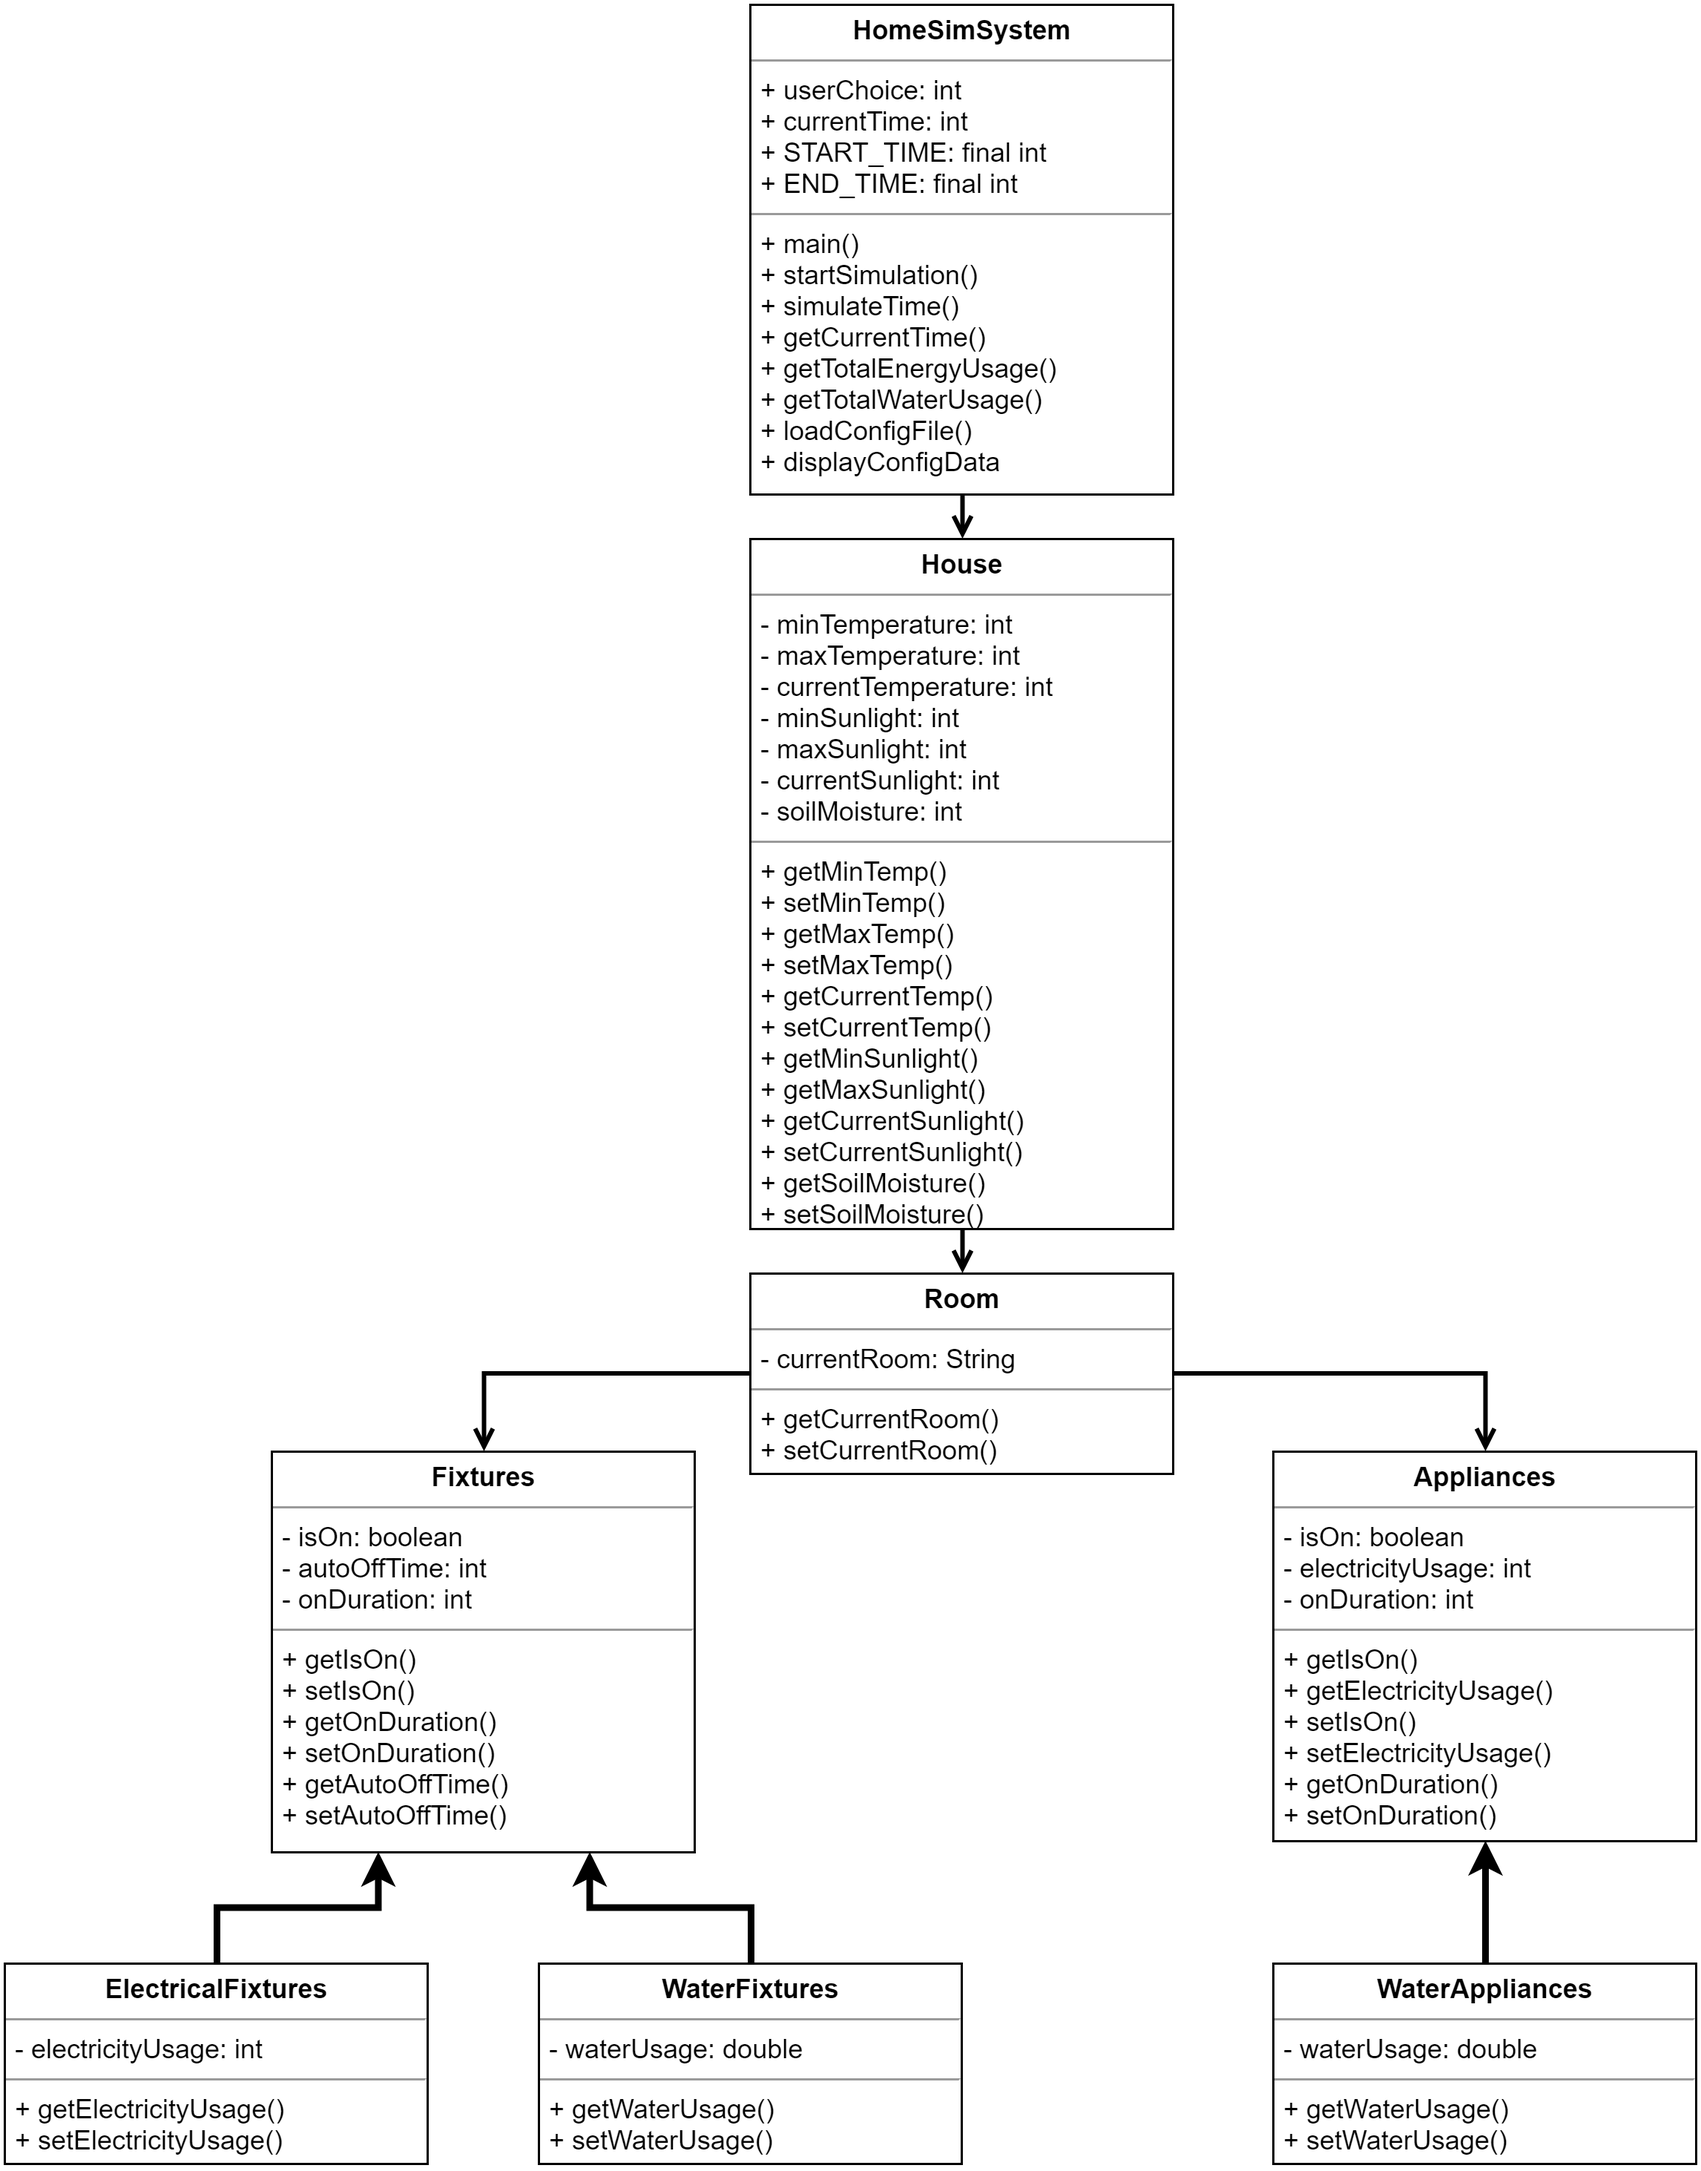
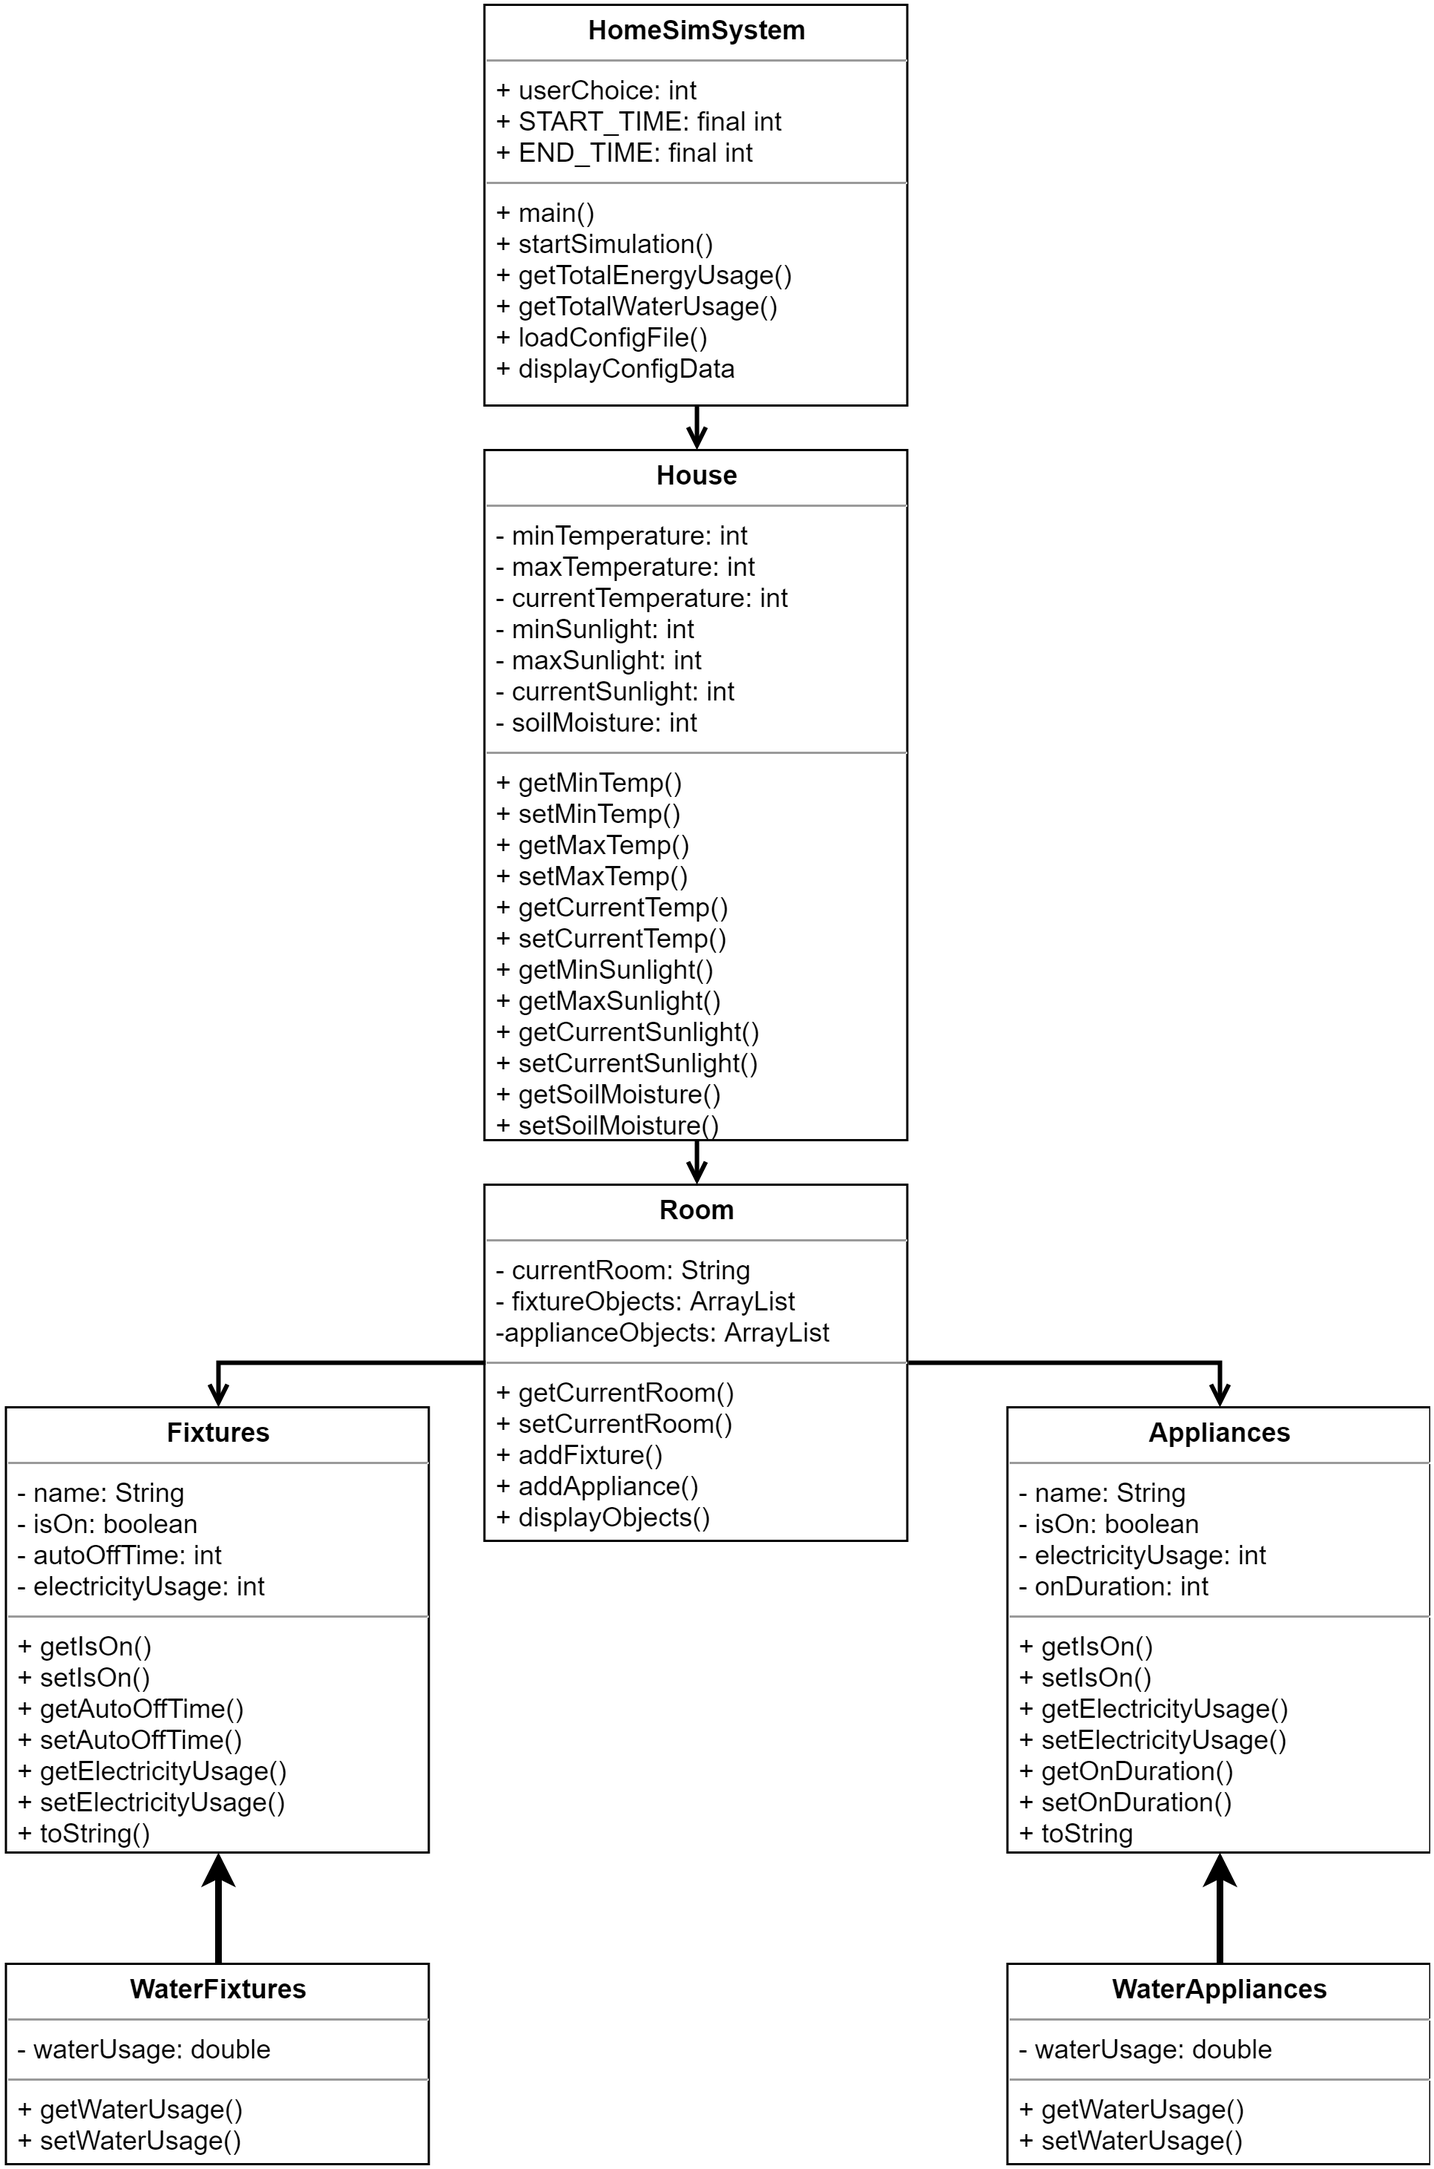
Started user story 1, Completed spike user story 2 Add a method to load csv file Re-write config display method to work with .csv instead of .properties Update class diagram Update Readme

Changed region(s): [[0.0, 0.0, 1.0, 1.0], [0.9933, 0.6538, 1.0, 0.8717], [0.6208, 0.0934, 0.6518, 0.1245]]

diff --git a/JavaApplication/HomeSimSystem.java b/JavaApplication/HomeSimSystem.java
@@ -1,8 +1,5 @@
-import java.io.FileInputStream;
-import java.io.IOException;
-import java.io.InputStream;
-import java.util.Properties;
-import java.util.Scanner;
+import java.io.*;
+import java.util.*;
 
 /*
 Provides menu for running the program
@@ -14,9 +11,8 @@ Provides method to load config file properties
 public class HomeSimSystem {
     public static void main(String[] args) {
         int userChoice = 0;
-        int currentTime = 0;
         final int START_TIME = 0;
-        final int END_TIME = 1441;
+        final int END_TIME = 1439;
 
         Scanner userInput = new Scanner(System.in);
 
@@ -25,7 +21,7 @@ public class HomeSimSystem {
             userChoice = userInput.nextInt();
             switch (userChoice) {
                 case 1:
-                    startSimulation();
+                    startSimulation(START_TIME, END_TIME);
                     userChoice = 3;
                     break;
                 case 2:
@@ -38,20 +34,67 @@ public class HomeSimSystem {
                     break;
             }
         }
-        System.out.println("Thanks for using the home automation simulator!");
+        System.out.println("\nThanks for using the home automation simulator!");
 
     }
 
-    public static void startSimulation() {
+    public static void startSimulation(int startTime, int endTime) {
 
-    }
+        //Get config variables
+        List options = loadConfigFile();
 
-    public static void simulateTime() {
+        //Create house object based on config parameters
+        House house = new House(Integer.parseInt(options.get(2).toString().replaceAll("\\D+", "")),
+                Integer.parseInt(options.get(0).toString().replaceAll("\\D+", "")),
+                Integer.parseInt(options.get(1).toString().replaceAll("\\D+", "")),
+                0, 100, 0,
+                Integer.parseInt(options.get(4).toString().replaceAll("\\D+", "")));
 
-    }
+        //Initialize and set variables
+        int meridianCheck = 0;
+        String meridian = "AM";
+        String message = "0";
+        int startHour = 5;
+        int simSpeed = Integer.parseInt(options.get(3).toString().replaceAll("\\D+", ""));
 
-    public static void getCurrentTime() {
+        System.out.println("\nThe Current Time is " + startHour + ":" + message + startTime % 60 + " " +
+                meridian + "\nThe current Sunlight is: " + house.getCurrentSunlight() +
+                "\nThe current Temperature is: " + house.getCurrentTemp());
+        System.out.println();
+        //Loop until start time is less than the end time, performing checks
+        while (startTime < endTime) {
+            try {
+                //Advance Time By 1 Minute
+                startTime++;
 
+
+                //Time Calculations
+                if (startTime % 60 < 10) {
+                    message = "0";
+                }
+                else message = "";
+                if (startHour % 13 == 0) {
+                    startHour = 1;
+                    meridianCheck++;
+                }
+                if (meridianCheck % 2 == 0) {
+                    meridian = "AM";
+                } else meridian = "PM";
+
+                if (startTime <= 120 && startTime > 20) {
+                    house.setCurrentSunlight(house.getCurrentSunlight() + 1);
+                }
+                //Print Status Of Everything On The Hour
+                if (startTime % 60 == 0) {
+                    ++startHour;
+
+                }
+                Thread.sleep(simSpeed);
+            } catch (InterruptedException e) {
+                e.printStackTrace();
+            }
+
+        }
     }
 
     public static void getTotalEnergyUsage() {
@@ -62,25 +105,47 @@ public class HomeSimSystem {
 
     }
 
-    public static void loadConfigFile() {
+    public static List loadConfigFile() {
+        String fileName = "config.csv";
+        File file = new File(fileName);
+        List<List<String>> lines = new ArrayList<>();
+        Scanner inputStream;
 
+        try {
+            inputStream = new Scanner(file);
+            while (inputStream.hasNext()) {
+                String line = inputStream.next();
+                String[] values = line.split(",");
+                lines.add(Arrays.asList(values));
+            }
+            inputStream.close();
+        } catch (FileNotFoundException e) {
+            e.printStackTrace();
+        }
+        return lines;
     }
 
     public static void displayConfigData() {
-        Properties props = new Properties();
-        InputStream input = null;
-        try {
-            input = new FileInputStream("config.properties");
-            props.load(input);
+        String csvFile = "config.csv";
+        BufferedReader br = null;
+        String line;
+        String csvSplitBy = ",";
 
-            props.forEach((key, value) -> System.out.println(key + " = " + value));
+        try {
+            br = new BufferedReader(new FileReader(csvFile));
+            for (int i = 0; i < 5; ++i){
+                    line = br.readLine();
+                String[] property = line.split(csvSplitBy);
+                System.out.print(property[0] + " : " + property[1]);
+                System.out.println();
+            }
             System.out.println();
-        } catch (IOException ex) {
-            ex.printStackTrace();
+        } catch (IOException e) {
+            e.printStackTrace();
         } finally {
-            if (input != null) {
+            if (br != null) {
                 try {
-                    input.close();
+                    br.close();
                 } catch (IOException e) {
                     e.printStackTrace();
                 }

diff --git a/README.md b/README.md
@@ -7,5 +7,5 @@ This is the CP2406 home automation simulator project codebase.
 4. (DONE) Establish initial UML Class diagram
 5. (DONE) Establish classes in intellij
 6. (DONE) Set up classes based on the UML class diagram
-7. (IN-PROGRESS) Implement user stories one at a time (1/10 Complete) (9/10 Incomplete / Buggy)
+7. (IN-PROGRESS) Implement user stories one at a time (3/10 Complete) (7/10 Incomplete / Buggy)
 8. (TODO) Refine application once all user stories have been implemented
